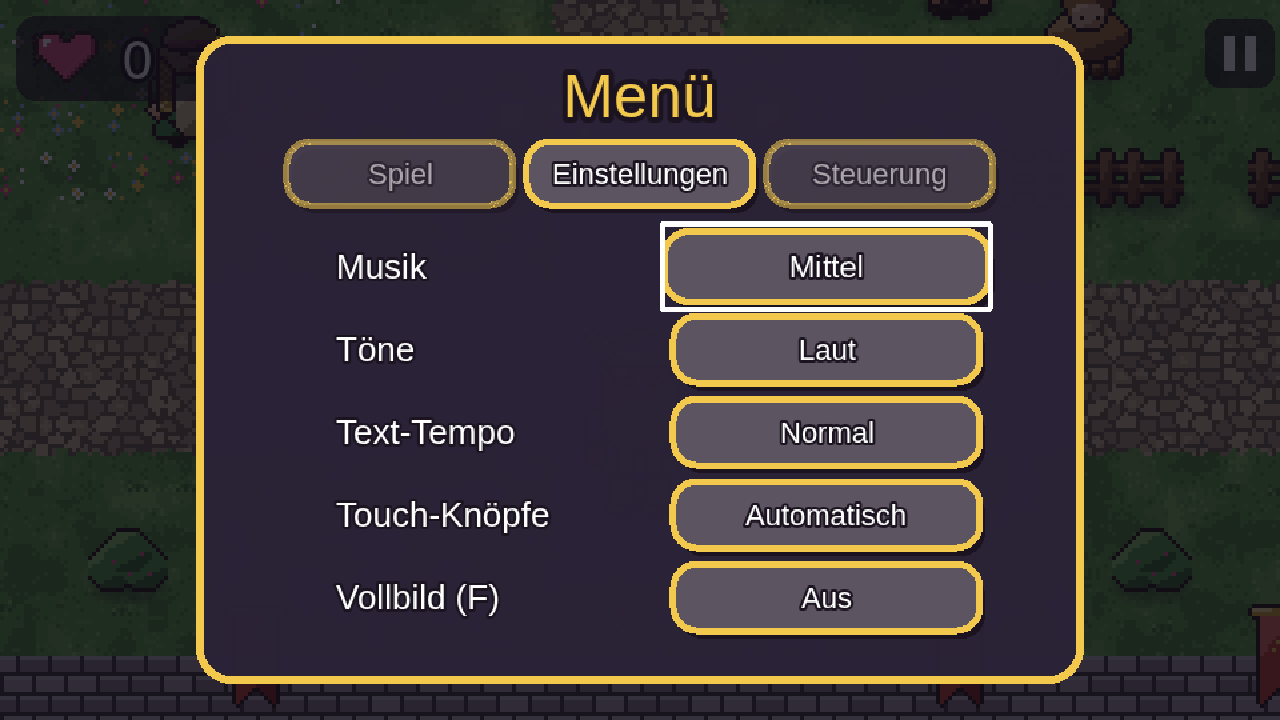
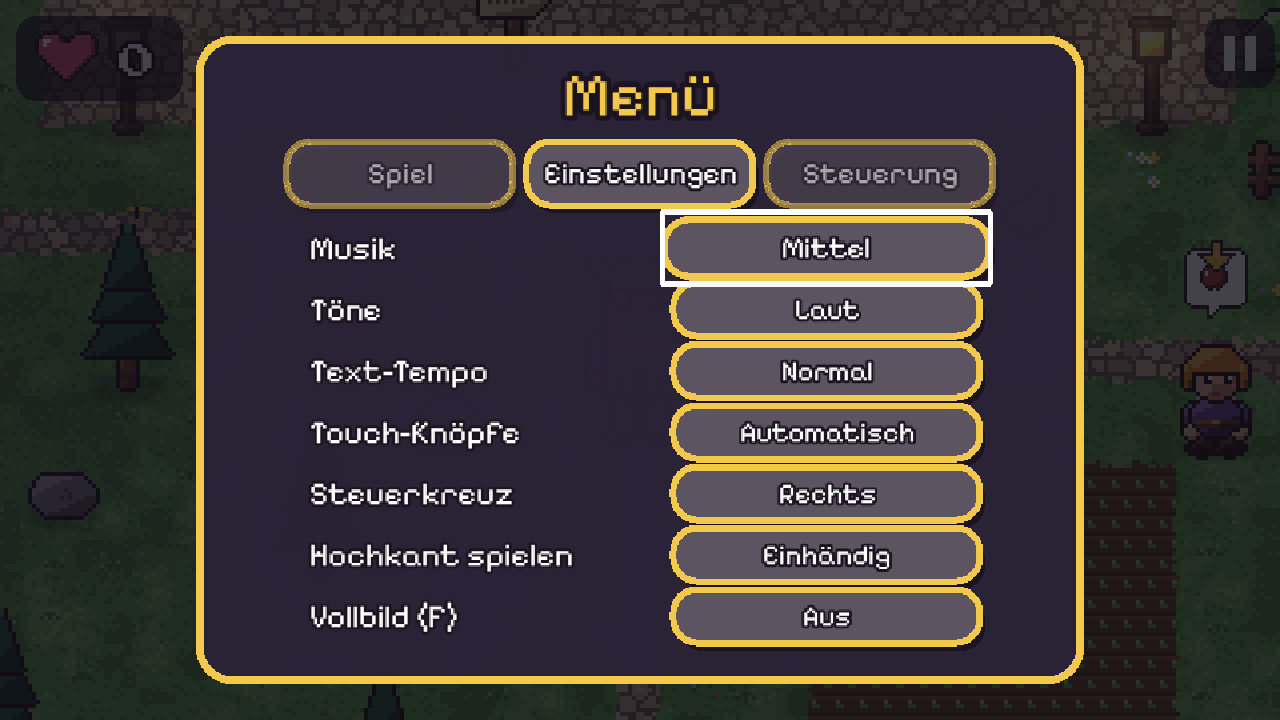
Doku auf den aktuellen Stand: Handy, Einstellungen, Technik
- README: Abschnitt «Auf dem Handy und Tablet» mit Bildern (quer,
  hochkant), Menü-Beschreibung mit allen Einstellungen, neues Menü-Bild
- Wiki Spielanleitung: Spielstände pro Gerät, als App installieren,
  Versionsanzeige, alle Einstellungen
- Wiki Steuerung: Steuerkreuz rechts (umstellbar), Helfen gegenüber
- Wiki Technik: Schriften, Bildschirm-Anpassung, Updates, Manifest
- Wiki Home: Spiel-Link und Seite «Mitarbeit und Planung»

Refs #15, #16, #17, #18

Claude-Session: https://claude.ai/code/session_01S9aviodgtQDEDuaWTm22WH

diff --git a/docs/wiki/Technik.md b/docs/wiki/Technik.md
@@ -2,7 +2,8 @@
 
 - **Phaser 3** (2D-Spiel-Bibliothek) + **Vite** (Entwicklungsserver und Build), alles in JavaScript.
 - **Keine Bilddateien:** Alle Figuren, Gebäude, Böden, Gegenstände, Töne und die Musik werden im Code erzeugt.
-- Spielauflösung 960 × 540, die Spielwelt wird 3-fach vergrössert gezeigt (16-Pixel-Kacheln).
+- Gestaltet für 960 × 540, die Spielwelt wird 3-fach vergrössert gezeigt (16-Pixel-Kacheln).
+- Schriften: «Pixelify Sans» für Texte, «Press Start 2P» für Zahlen, beide über `@fontsource` im Spiel eingebaut (kein Google Fonts, funktioniert offline).
 
 ## Ordner
 | Pfad | Inhalt |
@@ -14,7 +15,8 @@
 | `src/grafik/figuren-liste.js` | Aussehen aller Figuren |
 | `src/grafik/drache.js` | Glutherz (sitzend, fliegend, Augen) und das Pony |
 | `src/grafik/welt-grafik.js` | Boden mit Übergängen, Gebäude, Deko, Tiere, Licht |
-| `src/systeme/` | Speichern (3 Plätze), Musik, Töne, Plappern/Text, Kapitelwechsel, Vollbild |
+| `src/grafik/knoepfe.js` | Touch-Steuerkreuz im Zwergen-Stil (Pixel für Pixel gemalt) |
+| `src/systeme/` | Speichern (3 Plätze), Musik, Töne, Plappern/Text, Kapitelwechsel, Vollbild, Bildschirm-Anpassung (`bildschirm.js`) |
 | `src/texte/de.js` | Allgemeine Texte, Bildergeschichten |
 | `tests/durchlauf.mjs` | Automatischer Durchlauf (folgt dem Pfeil) |
 | `scripts/pruefe-karten.mjs` | Prüft alle Karten auf Sackgassen |
@@ -34,3 +36,16 @@ Zwischenszenen stehen als Liste von Schritten in den Level-Daten (`ereignisse`) 
 ## Spielstand
 `localStorage`, Schlüssel `grosser-zwerg-plaetze-v2`: 3 Plätze mit Kapitel, erfüllten Wünschen, Herzen, Fortschritt von
 Bauaufgaben, erlebten Ereignissen, Ort/Position, getragenem Gegenstand, Spielzeit.
+
+## Bildschirm-Anpassung (`src/systeme/bildschirm.js`)
+- Phaser-Skalierung **`EXPAND`**: 960 × 540 ist immer sichtbar, auf breiteren oder höheren Bildschirmen wird das Spielfeld grösser statt mit schwarzen Rändern.
+- **`mittig(scene, breite)`** hält Menüs, Bildergeschichten, Flug und Abspann in der Mitte und verkleinert sie, wenn der Bildschirm zu schmal ist.
+- **`beiGroesse(scene, fn)`** ruft `fn` bei jeder Grössenänderung auf (Welt-Kamera, Knöpfe der Oberfläche).
+- **`sichererRand(scene)`** liest `env(safe-area-inset-*)` (iPhone-Notch, Statusleiste) in Spiel-Punkten.
+- **Hochkant** (Handy schmaler als 600 Punkte, Einstellung «Hochkant spielen»): `passeFormAn()` stellt die Grundgrösse auf 540 × 960 um.
+
+## Veröffentlichung und Updates
+- Web-App-Manifest und Symbole in `public/`: «Zum Home-Bildschirm» startet im Vollbild.
+- `main.js` vergleicht beim Start und beim Zurückkehren in die App das Skript der aktuellen Seite mit dem online und lädt bei einer neuen Version einmal neu.
+- `vite.config.js` setzt `__VERSION__` (Build-Zeit), das Menü zeigt sie an.
+- Beim ersten Speichern: `navigator.storage.persist()`, damit der Browser die Spielstände nicht von selbst löscht.

diff --git a/README.md b/README.md
@@ -77,6 +77,26 @@ Wenn etwas Besonderes passiert, gibt es eine Einblendung über den ganzen Bildsc
 
 ---
 
+## 📱 Auf dem Handy und Tablet
+
+Das Spiel füllt jeden Bildschirm aus. **Quer** liegt das Steuerkreuz rechts und der Helfen-Knopf links (im Menü umstellbar).
+**Hochkant** spielt man einhändig: Steuerkreuz unten, Helfen-Knopf direkt darüber, beides mit dem Daumen.
+
+<table>
+<tr>
+<td width="68%"><img src="docs/bilder/handy-quer.png" alt="Handy quer"></td>
+<td width="32%"><img src="docs/bilder/handy-hochkant.png" alt="Handy hochkant, einhändig"></td>
+</tr>
+<tr>
+<td align="center">Quer: Zwergen-Schild als Steuerkreuz</td>
+<td align="center">Hochkant: einhändig</td>
+</tr>
+</table>
+
+**Als App:** Link in Safari öffnen → Teilen → «Zum Home-Bildschirm». Dann startet es im Vollbild und aktualisiert sich von selbst.
+
+---
+
 ## 🗺 Fünf Kapitel, elf Orte
 
 | Kapitel | Orte | Was passiert |
@@ -117,7 +137,9 @@ Wenn etwas Besonderes passiert, gibt es eine Einblendung über den ganzen Bildsc
 
 💬 **Plappern statt Computerstimme.** Die Figuren «plappern» beim Reden, jede in ihrer eigenen Tonhöhe. Der Text läuft dazu mit.
 
-⚙ **Menü wie in jedem guten Spiel.** Mit **Esc**: Weiter, Speichern, Musik, Töne, Text-Tempo, Touch-Knöpfe, Vollbild und alle Tasten im Überblick.
+⚙ **Menü wie in jedem guten Spiel.** Mit **Esc** oder ⏸: Weiter, Speichern, Musik, Töne, Text-Tempo, Touch-Knöpfe, Steuerkreuz links/rechts, Hochkant spielen, Vollbild und alle Tasten im Überblick. Unten steht die Version.
+
+📱 **Für Handy und Tablet gemacht.** Füllt jeden Bildschirm aus. Hochkant spielt man einhändig: Steuerkreuz unten, Helfen-Knopf direkt darüber. Das Steuerkreuz ist ein Zwergen-Schild mit Steinkreuz. Als App auf dem Home-Bildschirm aktualisiert es sich von selbst.
 
 ![Menü](docs/bilder/menue.png)
 

diff --git a/docs/wiki/Spielanleitung.md b/docs/wiki/Spielanleitung.md
@@ -23,12 +23,22 @@ Es gibt keine Gegner, man kann nichts falsch machen und nichts verlieren.
 - Im **Menü** (Esc oder ⏸ oben rechts) gibt es zusätzlich **Speichern**.
 - Einen Spielstand löschen: auf der Spielstand-Karte das rote **✕** antippen und bestätigen.
 - Ist das Spiel durchgespielt, zeigt die Karte **👑 Geschafft!**
+- Die Spielstände liegen **im Browser des Geräts** und bleiben nach dem Schliessen erhalten.
+  Nicht im privaten Modus spielen und die Websitedaten nicht löschen.
+- Die **App auf dem Home-Bildschirm** hat eigene Spielstände, getrennt von Safari. Das Artefakt in Claude hat ebenfalls eigene.
+
+## Als App auf dem Tablet oder Handy
+1. [Spiel-Link](https://gsb-deleven.github.io/Game-Der_Grosse_Zwerg/) in Safari öffnen
+2. Teilen → **«Zum Home-Bildschirm»**
+3. Über das Symbol mit dem Grossen Zwerg starten: Vollbild, ohne Adressleiste
+
+Neue Versionen lädt die App beim Start von selbst. Welche Version läuft, steht unten im Menü (Reiter «Spiel»).
 
 ## Das Menü (Esc)
 | Reiter | Inhalt |
 |---|---|
-| **Spiel** | Weiterspielen · Speichern · Zum Titelbild |
-| **Einstellungen** | Musik · Töne · Text-Tempo · Touch-Knöpfe (automatisch/immer/nie) · Vollbild |
+| **Spiel** | Weiterspielen · Speichern · Zum Titelbild · Versionsanzeige |
+| **Einstellungen** | Musik · Töne · Text-Tempo · Touch-Knöpfe (automatisch/immer/nie) · Steuerkreuz (rechts/links) · Hochkant spielen (einhändig/nein) · Vollbild |
 | **Steuerung** | Übersicht aller Tasten für Tastatur, Controller und Tablet |
 
 **F** schaltet jederzeit in den Vollbildmodus.

diff --git a/docs/wiki/Steuerung.md b/docs/wiki/Steuerung.md
@@ -2,9 +2,9 @@
 
 | Aktion | Tastatur | Controller | Tablet / Handy |
 |---|---|---|---|
-| Laufen | Pfeiltasten oder W A S D | Stick oder Steuerkreuz | Steuerkreuz links – oder einfach irgendwo **hintippen** |
-| Helfen / Reden / Aufheben | Leertaste, Enter oder E | A (oder B, X, Y) | grosser **Herz-Knopf** rechts – oder Figur antippen |
-| Menü öffnen / schliessen | Esc oder P | Start | Pause-Knopf ⏸ oben rechts |
+| Laufen | Pfeiltasten oder W A S D | Stick oder Steuerkreuz | Steuerkreuz (Zwergen-Schild, standardmässig rechts) – oder einfach irgendwo **hintippen** |
+| Helfen / Reden / Aufheben | Leertaste, Enter oder E | A (oder B, X, Y) | grosser **Herz-Knopf** gegenüber dem Steuerkreuz – oder Figur antippen |
+| Menü öffnen / schliessen | Esc oder P | Start | Pause-Knopf oben rechts |
 | Vollbild | F | über das Menü | über das Menü |
 | Im Menü wählen | Pfeiltasten + Enter, ←/→ wechselt den Reiter | Steuerkreuz + A | antippen |
 | Geschichte weiterblättern | Leertaste / Enter | beliebiger Knopf | antippen |

diff --git a/docs/wiki/Home.md b/docs/wiki/Home.md
@@ -20,8 +20,10 @@ ein gelber Pfeil zeigt immer, wohin es geht.
 | [[Neues Level bauen]] | Eltern | Eigene Karten, Figuren, Aufgaben und Drehbücher |
 | [[Technik]] | Entwickler | Aufbau des Codes, Grafik-Baukasten, Musik |
 | [[Entwicklung und Tests]] | Entwickler | Starten, bauen, testen, veröffentlichen |
+| [[Mitarbeit und Planung]] | alle | Ideen, Issues, @claude, Milestones, Project-Board |
 
 ## Links
+- **Spielen:** [gsb-deleven.github.io/Game-Der_Grosse_Zwerg](https://gsb-deleven.github.io/Game-Der_Grosse_Zwerg/)
 - Code: [Repository](https://github.com/GSB-Deleven/Game-Der_Grosse_Zwerg)
 - Aufgaben: [Issues](https://github.com/GSB-Deleven/Game-Der_Grosse_Zwerg/issues)
 - Ideen & Wünsche: [Discussions](https://github.com/GSB-Deleven/Game-Der_Grosse_Zwerg/discussions)
